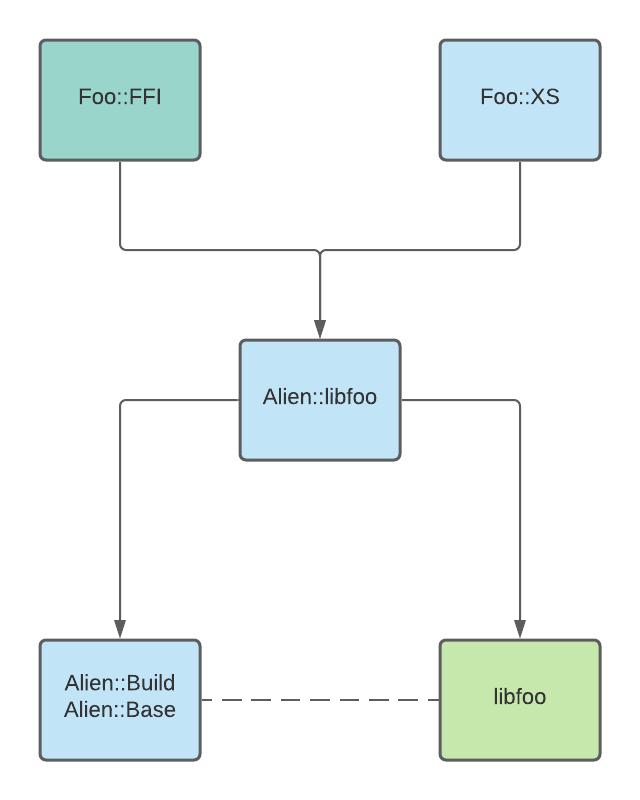
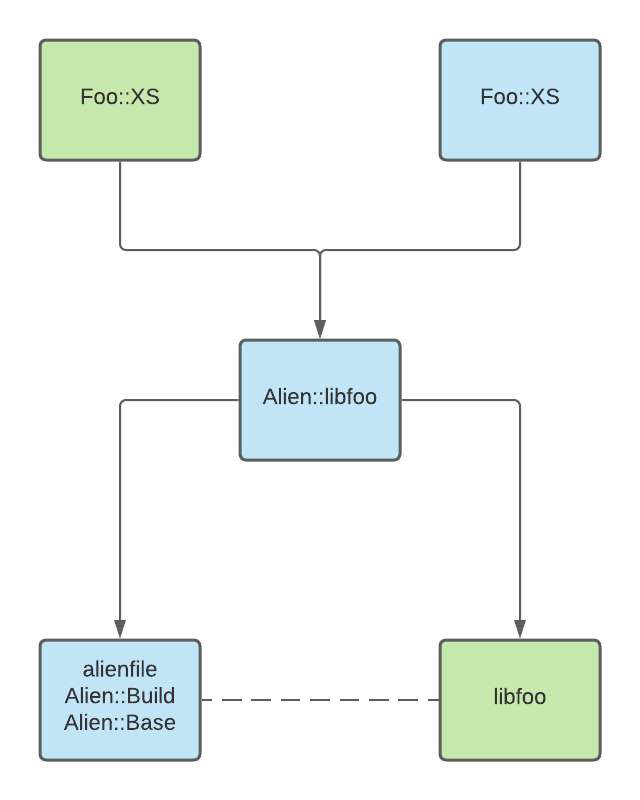
fix dep chart

Changed region(s): [[0.0625, 0.0312, 0.3125, 0.2188], [0.0938, 0.8125, 0.2812, 0.9375]]

diff --git a/index.html b/index.html
@@ -134,9 +134,10 @@ Note:
 <img src="images/Alien-dependency-chart.png" style="width: 35%">
 
 Note:
-* NOTE FIX COLOR of Foo::FFI
 * Once you've created an Alien you can use it as a dependency
-* for XS or FFI modules.
+* for XS or FFI modules, as shown in this chart.
+* Pure perl modules are coded as blue,
+* While non-Perl or mixed components are colored green.
 * I recommend using the Alien::Build / Alien::Base / alienfile framework
 * For building Aliens
 * These tools handle a lot of corner cases
